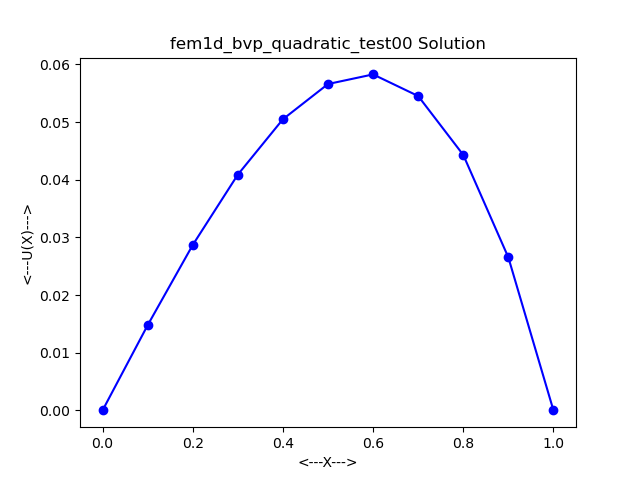
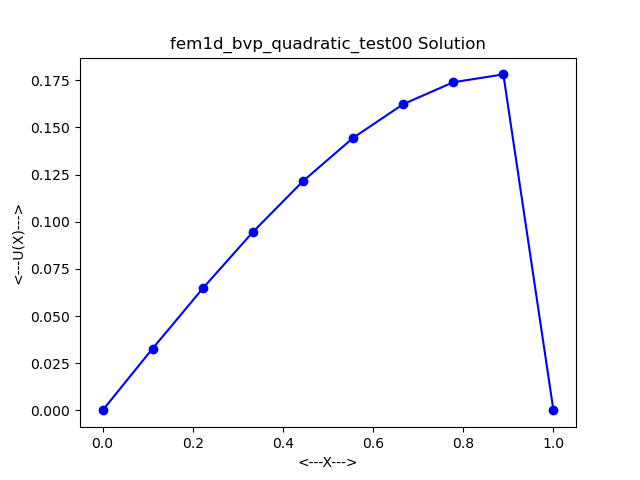
mm

diff --git a/Untitled-1.py b/Untitled-1.py
@@ -1,48 +1,26 @@
-def fem1d_bvp_quadratic ( ):
-#
-## FEM1D_BVP_QUADRATIC solves a two point boundary value problem.
-#
-#  Location:
-#
-#    http://people.sc.fsu.edu/~jburkardt/py_src/fem1d_bvp_quadratic/fem1d_bvp_quadratic.html
-#
-#  Discussion:
-#
-#    The finite element method is used, with piecewise quadratic elements.
-#
-#  Licensing:
-#
-#    This code is distributed under the GNU LGPL license.
-#
-#  Modified:
-#
-#    17 September 2014
-#
-#  Author:
-#
-#    John Burkardt
-#
-  import matplotlib.pyplot as plt
-  import numpy as np
-  import scipy.linalg as la
+import matplotlib.pyplot as plt
+import numpy as np
+import scipy.linalg as la
 
 
-#  Define the interval.
-#
-  a = 0.0
-  b = 1.0
+def fem1d_bvp_quadratic(n_num):
+
+    #  Define the interval.
+    #
+    a = 0.0
+    b = 1.0
 #
 #  Define the mesh, N_NUM evenly spaced points between A and B.
 #  Because we are using quadratic elements, we need N_NUM to be odd!
 #
-  n_num = 11
-  x = np.linspace ( a, b, n_num )
 
-  print ("")
-  print ("  Nodes:")
-  print ("")
-  for i in range ( 0, n_num ):
-    print ("  %d  %f" %( i, x[i] ))
+    x = np.linspace(a, b, n_num)
+
+    # print("")
+    # print("  Nodes:")
+    # print("")
+    # for i in range(0, n_num):
+    #     print("  %d  %f" % (i, x[i]))
 #
 #  Set the number of elements.
 #
@@ -56,162 +34,171 @@ def fem1d_bvp_quadratic ( ):
 #     1     2     3     4     5      1-based node indices
 #     0     1     2     3     4      0-based node indices
 #
-  e_num = int(( n_num - 1 ) / 2)
-  print(n_num)
+    e_num = int((n_num - 1) / 2)
+
+
 #
 #  Set a 3 point quadrature rule on the reference interval [-1,1].
 #
-  q_num = 3
+    q_num = 3
 
-  xg = np.array ( ( \
-    -0.774596669241483377035853079956, \
-     0.0, \
-     0.774596669241483377035853079956 ) )
+    xg = np.array((
+        -0.774596669241483377035853079956,
+        0.0,
+        0.774596669241483377035853079956))
 
-  wg = np.array ( ( \
-    5.0 / 9.0, \
-    8.0 / 9.0, \
-    5.0 / 9.0 ) )
+    wg = np.array((
+        5.0 / 9.0,
+        8.0 / 9.0,
+        5.0 / 9.0))
 #
 #  Compute the system matrix A and right hand side RHS.
 #
-  A = np.zeros ( ( n_num, n_num ) )
-  rhs = np.zeros ( n_num )
+    A = np.zeros((n_num, n_num))
+    rhs = np.zeros(n_num)
 #
 #  Look at element E: (0, 1, 2, ..., E_NUM-1).
 #
-  for e in range ( 0, e_num ):
+    for e in range(0, e_num):
 
-    l = 2 * e
-    m = 2 * e + 1
-    r = 2 * e + 2
+        l = 2 * e
+        m = 2 * e + 1
+        r = 2 * e + 2
 
-    xl = x[l]
-    xm = x[m]
-    xr = x[r]
+        xl = x[l]
+        xm = x[m]
+        xr = x[r]
 #
 #  Consider quadrature point Q: (0, 1, 2 ) in element E.
 #
-    for q in range ( 0, q_num ):
-#
-#  Map XG and WG from [-1,1] to
-#      XQ and WQ in [XL,XM,XR].
-#
-      xq = xl + ( xg[q] + 1.0 ) * ( xr - xl ) / 2.0
-      wq = wg[q] * ( xr - xl ) / 2.0
+        for q in range(0, q_num):
+            #
+            #  Map XG and WG from [-1,1] to
+            #      XQ and WQ in [XL,XM,XR].
+            #
+            xq = xl + (xg[q] + 1.0) * (xr - xl) / 2.0
+            wq = wg[q] * (xr - xl) / 2.0
 #
 #  Evaluate PHI(L), PHI(M) and PHI(R), and their derivatives at XQ.
 #
 #  It must be true that PHI(L) is 1 at XL and 0 at XM and XR,
 #  with similar requirements for PHI(M) and PHI(R).
 #
-      phil =    ( xq - xm ) * ( xq - xr )   / \
-              ( ( xl - xm ) * ( xl - xr ) )
-      philp = ( ( xq - xr ) + ( xq - xm ) ) / \
-              ( ( xl - xm ) * ( xl - xr ) )
+            phil = (xq - xm) * (xq - xr) / \
+                ((xl - xm) * (xl - xr))
+            philp = ((xq - xr) + (xq - xm)) / \
+                    ((xl - xm) * (xl - xr))
 
-      phim =    ( xq - xl ) * ( xq - xr )   / \
-              ( ( xm - xl ) * ( xm - xr ) )
-      phimp = ( ( xq - xr ) + ( xq - xl ) ) / \
-              ( ( xm - xl ) * ( xm - xr ) )
+            phim = (xq - xl) * (xq - xr) / \
+                ((xm - xl) * (xm - xr))
+            phimp = ((xq - xr) + (xq - xl)) / \
+                    ((xm - xl) * (xm - xr))
 
-      phir =    ( xq - xl ) * ( xq - xm )   / \
-              ( ( xr - xl ) * ( xr - xm ) )
-      phirp = ( ( xq - xm ) + ( xq - xl ) ) / \
-              ( ( xr - xl ) * ( xr - xm ) )
+            phir = (xq - xl) * (xq - xm) / \
+                ((xr - xl) * (xr - xm))
+            phirp = ((xq - xm) + (xq - xl)) / \
+                    ((xr - xl) * (xr - xm))
 
-      fxq = rhs_fn ( xq )
+            fxq = rhs_fn(xq)
 #
 #  Add the terms from this element to the matrix.
 #
-      A[l][l] = A[l][l] + wq * philp * philp
-      A[l][m] = A[l][m] + wq * philp * phimp
-      A[l][r] = A[l][r] + wq * philp * phirp
-      rhs[l]  = rhs[l]  + wq * phil  * fxq
+            A[l][l] = A[l][l] + wq * philp * philp
+            A[l][m] = A[l][m] + wq * philp * phimp
+            A[l][r] = A[l][r] + wq * philp * phirp
+            rhs[l] = rhs[l] + wq * phil * fxq
 
-      A[m][l] = A[m][l] + wq * phimp * philp
-      A[m][m] = A[m][m] + wq * phimp * phimp
-      A[m][r] = A[m][r] + wq * phimp * phirp
-      rhs[m]  = rhs[m]  + wq * phim  * fxq
+            A[m][l] = A[m][l] + wq * phimp * philp
+            A[m][m] = A[m][m] + wq * phimp * phimp
+            A[m][r] = A[m][r] + wq * phimp * phirp
+            rhs[m] = rhs[m] + wq * phim * fxq
 
-      A[r][l] = A[r][l] + wq * phirp * philp
-      A[r][m] = A[r][m] + wq * phirp * phimp
-      A[r][r] = A[r][r] + wq * phirp * phirp
-      rhs[r]  = rhs[r]  + wq * phir  * fxq
+            A[r][l] = A[r][l] + wq * phirp * philp
+            A[r][m] = A[r][m] + wq * phirp * phimp
+            A[r][r] = A[r][r] + wq * phirp * phirp
+            rhs[r] = rhs[r] + wq * phir * fxq
 #
 #  Modify the linear system to enforce the left boundary condition.
 #
-  A[0,0] = 1.0
-  A[0,1:n_num-1] = 0.0
-  rhs[0] = exact_fn ( x[0] )
+    A[0, 0] = 1.0
+    A[0, 1:n_num-1] = 0.0
+    rhs[0] = exact_fn(x[0])
 #
 #  Modify the linear system to enforce the right boundary condition.
 #
-  A[n_num-1,n_num-1] = 1.0
-  A[n_num-1,0:n_num-1] = 0.0
-  rhs[n_num-1] = exact_fn ( x[n_num-1] )
+    A[n_num-1, n_num-1] = 1.0
+    A[n_num-1, 0:n_num-1] = 0.0
+    rhs[n_num-1] = exact_fn(x[n_num-1])
 
-  #r8vec_print ( n_num, rhs, '  RHS' )
+    #r8vec_print ( n_num, rhs, '  RHS' )
 #
 #  Solve the linear system.
 #
-  u = la.solve ( A, rhs )
+    u = la.solve(A, rhs)
 #
 #  Evaluate the exact solution at the nodes.
 #
-  uex = np.zeros ( n_num )
-  for i in range ( 0, n_num ):
-    uex[i] = exact_fn ( x[i] )
+    uex = np.zeros(n_num)
+    for i in range(0, n_num):
+        uex[i] = exact_fn(x[i])
 #
 #  Compare the solution and the error at the nodes.
 #
-  print ("")
-  print ("  Node          Ucomp           Uexact          Error")
-  print ("")
-  for i in range ( 0, n_num ):
-    err = abs ( uex[i] - u[i] )
-    print ("  %4d  %14.6g  %14.6g  %14.6g" % ( i, u[i], uex[i], err ))
+    print("")
+    print("  Node          Ucomp           Uexact          Error")
+    print("")
+    for i in range(0, n_num):
+        err = abs(uex[i] - u[i])
+        print("  %4d  %14.6g  %14.6g  %14.6g" % (i, u[i], uex[i], err))
 #
 #  Plot the computed solution and the exact solution.
 #  Evaluate the exact solution at enough points that the curve will look smooth.
 #
-  npp = 51
-  xp = np.linspace ( a, b, npp )
-  up = np.zeros ( npp )
-  for i in range ( 0, npp ):
-    up[i] = exact_fn ( xp[i] )
+    npp = 51
+    xp = np.linspace(a, b, npp)
+    up = np.zeros(npp)
+    for i in range(0, npp):
+        up[i] = exact_fn(xp[i])
 
-  plt.plot ( x, u, 'bo-', xp, up, 'r.' )
-  plt.show ( )
+    plt.plot(x, u, 'bo-')
+    plt.plot(xp, up, 'r.')
+    plt.show()
 #
 #  Terminate.
-#
-  print ("")
-  print ("FEM1D_BVP_QUADRATIC:")
-  print ("  Normal end of execution.")
-  print ("")
+# #
+#     print("")
+#     print("FEM1D_BVP_QUADRATIC:")
+#     print("  Normal end of execution.")
+#     print("")
 #
 #  That is the end of the main program.
 #  Now we list some helper functions.
 #
-def exact_fn ( x ):
-#
-## EXACT_FN evaluates the exact solution.
-#
-  from math import exp
-  value = x * ( 1 - x ) * exp ( x )
-  return value
 
-def rhs_fn ( x ):
-#
-## RHS_FN evaluates the right hand side.
-#
-  from math import exp
-  value = x * ( x + 3 ) * exp ( x )
-  return value
+
+def exact_fn(x):
+    #
+    # EXACT_FN evaluates the exact solution.
+    #
+
+    value = (1 - x) * (np.arctan(a * (x - xb)) + np.arctan(a*xb))
+
+    return value
+
+
+def rhs_fn(x):
+    #
+    # RHS_FN evaluates the right hand side.
+    #
+    B = x-xb
+    value = 2*(a+a**3*B*(B-x+1))/(a**2*B**2+1)**2
+    return value
+
+
 #
 #  If this script is called directly, then run it as a program.
 #
-if ( __name__ == '__main__' ):
-  fem1d_bvp_quadratic ( )
-
+if (__name__ == '__main__'):
+    a = 0.5
+    xb = 0.2
+    fem1d_bvp_quadratic(15)

diff --git a/h_quadratic.py b/h_quadratic.py
@@ -195,7 +195,7 @@ def fem1d_bvp_quadratic(n, a, c, f, x):
 
 def fem1d_bvp_quadratic_test00():
 
-    n = 11
+    n = 10
 
 #
 #  Geometry definitions.
@@ -681,4 +681,5 @@ if (__name__ == '__main__'):
     xb = 0.2
     fem1d_bvp_quadratic_test00()
     l2_error_quadratic_test()
+
 

diff --git a/h_linear.py b/h_linear.py
@@ -7,7 +7,7 @@ import scipy.linalg as la
 import time
 
 
-def fem1d_linear(n=10):
+def fem1d_linear(n=13):
     #
     #  Define the mesh, N+1 points between A and B.
     #  These will be X[0] through X[N].
